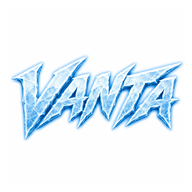
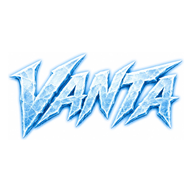
AGGIORNAMENTO VANTA 15

Changed region(s): [[0.0312, 0.2812, 0.9688, 0.75]]

diff --git a/styles.css b/styles.css
@@ -1853,3 +1853,30 @@ body {
   body { background: radial-gradient(circle at 50% 12%, rgba(85,114,143,.18), transparent 38rem), #03070D; }
   #app-shell { box-shadow: 0 0 88px rgba(0,0,0,.58); }
 }
+
+
+/* =========================================================
+   VANTA 15 — logo header ottimizzato
+   ========================================================= */
+.brand-logo {
+  width: 118px;
+  height: 58px;
+  display: block;
+  flex: 0 0 auto;
+  object-fit: cover;
+  object-position: center;
+  padding: 0;
+  border: 1px solid rgba(171,205,227,.72);
+  border-radius: 8px;
+  background: #ffffff;
+  box-shadow: 0 0 20px rgba(171,205,227,.24);
+  filter: none;
+}
+@media (max-width: 390px) {
+  .brand-logo { width: 106px; height: 52px; border-radius: 7px; }
+  .topbar-brand { gap: 10px; }
+}
+@media (max-width: 340px) {
+  .brand-logo { width: 92px; height: 48px; }
+  .topbar h1 { font-size: 22px; }
+}

diff --git a/sw.js b/sw.js
@@ -1,4 +1,4 @@
-const CACHE_NAME = 'vanta-v14-white-logo';
+const CACHE_NAME = 'vanta-v15-header-logo';
 const APP_SHELL = [
   './',
   './index.html',
@@ -11,7 +11,7 @@ const APP_SHELL = [
   './vendor/pdf.worker.min.js',
   './vendor/jszip.min.js',
   './manifest.webmanifest',
-  './assets/vanta-logo-ice.png',
+  './assets/vanta-logo-header.png',
   './assets/vanta-logo-source.jpg',
   './assets/vanta-background-ice.jpg',
   './assets/vanta-next-workout-ice.jpg',

diff --git a/app.js b/app.js
@@ -2,7 +2,7 @@
   'use strict';
 
   const STORAGE_KEY = 'progressivo.state.v1';
-  const APP_VERSION = 14;
+  const APP_VERSION = 15;
   const KG_TO_LB = 2.2046226218;
 
   const app = document.querySelector('#app');

diff --git a/index.html b/index.html
@@ -18,7 +18,7 @@
   <div id="app-shell">
     <header class="topbar">
       <div class="topbar-brand">
-        <img class="brand-logo" src="assets/vanta-logo-ice.png" alt="VANTA">
+        <img class="brand-logo" src="assets/vanta-logo-header.png" alt="VANTA">
         <div class="topbar-copy">
           <p class="eyebrow" id="screen-eyebrow">IL TUO ALLENAMENTO</p>
           <h1 id="screen-title">Oggi</h1>

diff --git a/AGGIORNAMENTO_GITHUB.md b/AGGIORNAMENTO_GITHUB.md
@@ -1,14 +1,14 @@
-# Aggiornamento a VANTA 14
+# Aggiornamento a VANTA 15
 
 1. Apri la versione attuale e usa **Profilo → Esporta backup**.
-2. Decomprimi `vanta-webapp-v14-ice-theme.zip`.
+2. Decomprimi `vanta-webapp-v15-ice-theme.zip`.
 3. Apri il repository GitHub dell’app.
 4. Seleziona **Add file → Upload files**.
 5. Carica tutti i file e tutte le cartelle estratte, sostituendo quelli esistenti.
 6. Verifica il caricamento delle cartelle `assets`, `icons` e `vendor`.
-7. Usa il messaggio `Aggiornamento VANTA 14`.
+7. Usa il messaggio `Aggiornamento VANTA 15`.
 8. Conferma con **Commit changes**.
 9. Attendi alcuni minuti, apri GitHub Pages e ricarica due volte.
 10. Chiudi completamente la PWA e riaprila.
 
-In **Profilo** deve comparire `VANTA v14`. Per vedere la nuova icona potrebbe essere necessario rimuovere e reinstallare il collegamento dalla schermata Home, dopo aver esportato il backup.
+In **Profilo** deve comparire `VANTA v15`. Per vedere la nuova icona potrebbe essere necessario rimuovere e reinstallare il collegamento dalla schermata Home, dopo aver esportato il backup.

diff --git a/TEST_REPORT.md b/TEST_REPORT.md
@@ -1,4 +1,4 @@
-# Report verifiche — VANTA 14
+# Report verifiche — VANTA 15
 
 ## Ambito
 Aggiornamento grafico della versione VANTA 12 senza rimuovere o modificare le funzioni di calendario, Fantasma, catalogo, importazione universale, profilo, schede e storico.
@@ -30,8 +30,8 @@ I precedenti codici viola principali non risultano più presenti in CSS o JavaSc
 - Bilanciamento delle parentesi CSS verificato.
 - Manifest JSON valido e tema browser impostato su `#060B13`.
 - Tutti gli asset elencati nel Service Worker esistono.
-- Cache PWA aggiornata a `vanta-v14-ice-branding`.
-- Versione visualizzata nel Profilo: `VANTA v14`.
+- Cache PWA aggiornata a `vanta-v15-ice-branding`.
+- Versione visualizzata nel Profilo: `VANTA v15`.
 - Catalogo invariato: 121 esercizi con identificativi presenti.
 
 ## Prova interfaccia mobile

diff --git a/CHANGELOG.md b/CHANGELOG.md
@@ -1,4 +1,4 @@
-# VANTA 14 — Tema ICE
+# VANTA 15 — Tema ICE
 
 - Sostituito il logo VANTA con la nuova versione effetto ghiaccio.
 - Rimossa automaticamente la superficie bianca del logo per integrarlo nell’interfaccia scura.

diff --git a/README.md b/README.md
@@ -1,4 +1,4 @@
-# VANTA 14
+# VANTA 15
 
 PWA personale per allenamenti con calendario selezionabile, Fantasma, catalogo esercizi, importazione universale e identità grafica ICE.
 